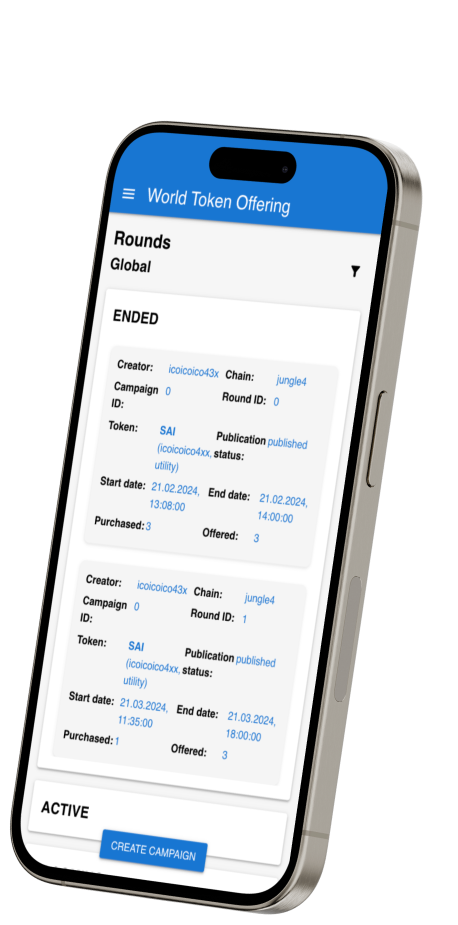
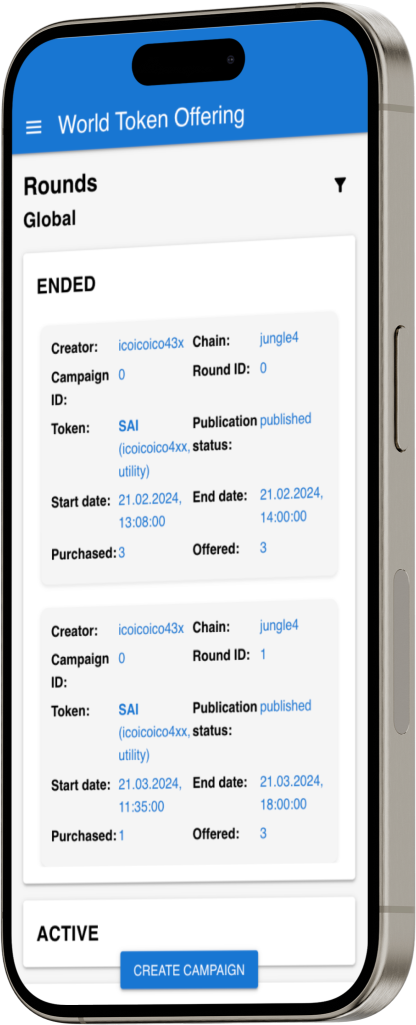
added automatic image change

diff --git a/templates/_layouts/default.html b/templates/_layouts/default.html
@@ -34,6 +34,10 @@
           </div>
           <div class="container__right-side">
             <img class="phone-img animate__animated animate__fadeInRight" src="../assets/graphics/images/phone.png"></img>
+            <img class="phone-img animate__animated animate__fadeInRight" src="../assets/graphics/images/phone-2.png"></img>
+            <img class="phone-img animate__animated animate__fadeInRight" src="../assets/graphics/images/phone-3.png"></img>
+            <img class="phone-img animate__animated animate__fadeInRight" src="../assets/graphics/images/phone-4.png"></img>
+            <img class="phone-img animate__animated animate__fadeInRight" src="../assets/graphics/images/phone-5.png"></img>
           </div>
         </div>
       </div>

diff --git a/assets/scripts/script.js b/assets/scripts/script.js
@@ -1,4 +1,11 @@
 document.addEventListener("DOMContentLoaded", function() {
+  
+  const images = document.querySelectorAll('.phone-img');
+  let currentImageIndex = 0;
+  images[currentImageIndex].style.display = 'flex';
+  setInterval(changeImage, 4000);
+
+
   const buttons = document.querySelectorAll('.services__btn');
   
   buttons.forEach(button => {
@@ -26,5 +33,11 @@ document.addEventListener("DOMContentLoaded", function() {
       if (selectedDescription) {
           selectedDescription.style.display = 'flex';
       }
+  }
+
+  function changeImage() {
+    images[currentImageIndex].style.display = 'none';
+    currentImageIndex = (currentImageIndex + 1) % images.length;
+    images[currentImageIndex].style.display = 'flex';
   }
 });

diff --git a/assets/styles/css/style.css b/assets/styles/css/style.css
@@ -127,6 +127,9 @@ html, body {
 
 .phone-img {
   max-height: 700px;
+  transform: rotate(7deg) !important;
+  margin-top: 100px;
+  display: none;
 }
 
 .block-text {
@@ -304,10 +307,14 @@ form > button:hover {
   
   .phone-img {
     max-height: 320px; /* Уменьшаем высоту изображения телефона на мобильных устройствах */
-    margin-top: 60px;
-    max-width: 160px;
+    margin-top: 100px;
+    max-width: 130px;
     width: 100%;
     height: auto;
+  }
+
+  .body__section--first > .section__container > .container > .container__right-side {
+    padding-right: 40px;
   }
 
   .body__section--second > .section__container > .container > .container__right-side {
